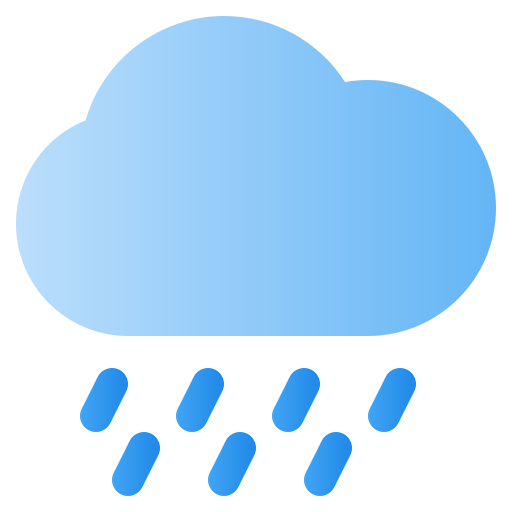
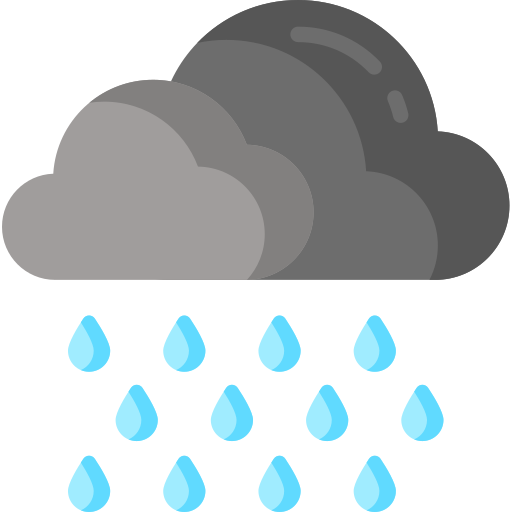
two new info and style changes

diff --git a/index.html b/index.html
@@ -17,29 +17,35 @@
                 <img id="icon" src="Images/cloud.png" alt="Weather Icon">
             </div>
             <div class="temperature">
-                <p id="temp"></p>
+                <p id="temp">0°C</p>
             </div>
             <div class="location">
                 <!-- <span id="location">Location</span> -->
-                <h4 id="location">Location</h4>
+                <h2 id="location">Location</h2>
                 <div class="weather-summary">
                     <h4 id="weatherSummary">cloudy</h4>
                 </div>
             </div>
-            <div class="details">
-                <!-- <span id="humidity">Humidity: 0%</span>
-                <span id="wind-speed">Wind Speed: 0 km/h</span> -->
-                
-                <div class="humidity">
-                    <h3>Humidity</h3>
-                    <p id="humidity">0%</p>
-                </div>
-                <div class="wind-speed">
-                    <h3>Wind Speed</h3>
-                    <p id="windSpeed">0 Km/hr</p>
-                </div>
+        </div>
+        <div class="details">            
+            <div class="humidity">
+                <h3>Humidity</h3>
+                <p id="humidity">0%</p>
+            </div>
+            <div class="wind-speed">
+                <h3>Wind Speed</h3>
+                <p id="windSpeed">0 Km/hr</p>
+            </div>
+            <div class="feels-like">
+                <h3>Feels Like</h3>
+                <p id="feelsLike">0°C</p>
+            </div>
+            <div class="air-pressure">
+                <h3>Air Pressure</h3>
+                <p id="airPressure">0 Pa</p>
             </div>
         </div>
+        
     </div>
     <script src="script.js"></script>
 </body>

diff --git a/script.js b/script.js
@@ -13,17 +13,18 @@ document.getElementById('search-btn').addEventListener('click', function() {
                 const temp = Math.round(data.main.temp); 
                 const humidity = data.main.humidity;
                 const weatherSummary = data.weather[0].description;         
-                const icon = data.weather[0].icon;
                 const location = `${data.name}, ${data.sys.country}`;
-                //const location = data.name;
+                const airPressure = data.main.pressure;
+                const feelsLike = data.main.feels_like;
 
 
                 document.getElementById('temp').innerText = `${temp}°C`;
                 document.getElementById('weatherSummary').innerText = `${capitalizeFirstLetter(weatherSummary)}`;
                 document.getElementById('humidity').innerText = `${humidity}%`;
                 document.getElementById('windSpeed').innerText = `${windSpeed} km/h`;
-                document.getElementById('icon').src = `http://openweathermap.org/img/wn/${icon}.png`;
                 document.getElementById('location').innerText = `${location}`;
+                document.getElementById('airPressure').innerText = `${airPressure}`;
+                document.getElementById('feelsLike').innerText = `${feelsLike}`;
             } else {
                 alert('City not found');
             }

diff --git a/style.css b/style.css
@@ -4,13 +4,13 @@ body {
     align-items: center;
     height: 100vh;
     margin: 0;
-    background: linear-gradient(to bottom, #232730, #4f6181);
+    background: #bdd2f6;
     font-family: Arial, sans-serif;
-    color: #101010;
+    color: #ffffff;
 }
 
 .weather-app {
-    background: rgb(187, 200, 255);
+    background: linear-gradient(to bottom, #383e4c, #4f6181);
     border-radius: 10px;
     padding: 20px;
     text-align: center;
@@ -58,5 +58,15 @@ body {
 }
 
 .details {
+    /* display: flex;
+    justify-content: space-around;
     font-size: 0.9em;
+    background-color: rgba(0, 47, 122, 0.3);
+    border-radius: 10px; */
+    display: grid;
+    grid-template-columns: auto auto;
+    gap: 20px 20px;
+    padding: 10px;
+    background-color: rgba(0, 47, 122, 0.3);
+    border-radius: 10px;
 }
